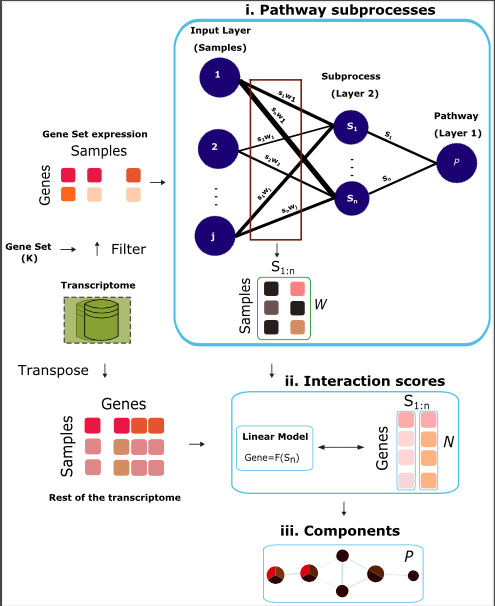
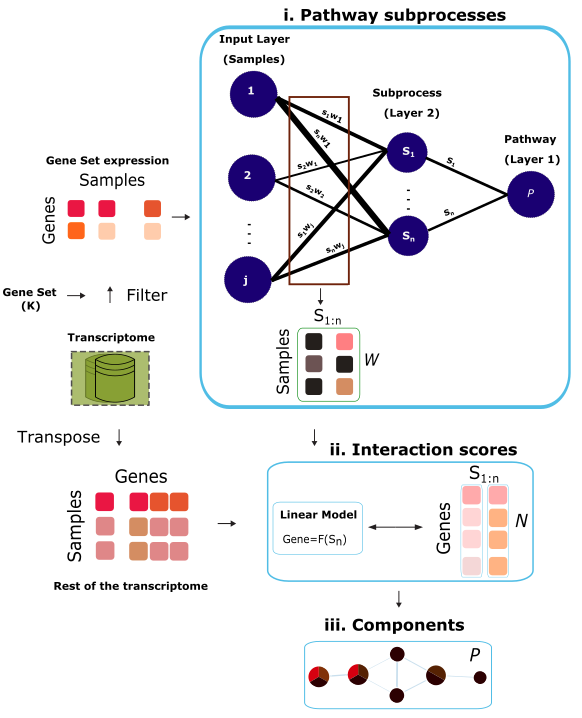
Final Version 1.0.0
Installable with
pip install ACSNI
or
pip install ACSNI-1.0.0

diff --git a/setup.py b/setup.py
@@ -17,7 +17,8 @@ setuptools.setup(
     description="automatic context-specific network inference",
     long_description=long_description,
     long_description_content_type="text/markdown",
-    url="https://github.com/caanene1/ACSNI/release",
+    url="https://github.com/caanene1/ACSNI",
+    download_url = "https://github.com/caanene1/ACSNI/releases/download/1.0.0/ACSNI-1.0.0-py3-none-any.whl",
     packages=setuptools.find_packages(include=["ACSNI", "ACSNI.SRC"]),
     include_package_data=True,
     classifiers=[
@@ -30,3 +31,4 @@ setuptools.setup(
 )
 
 # Build this package with >> python3 setup.py sdist bdist_wheel
+# Upload to pypi with >> sudo twine upload dist/*

diff --git a/README.md b/README.md
@@ -6,7 +6,7 @@ Many components of these biological pathways still remain unknown, hindering the
 biological processes of interest. ACSNI leverages artificial intelligence for the reconstruction of a biological pathway,
 aids the discovery of pathway components and classification of the crosstalk between pathways in specific tissues.
 
-![workflow](https://user-images.githubusercontent.com/44468440/111686911-916bee00-8821-11eb-9b96-e2cefc93f3cf.png)
+![workflow](https://user-images.githubusercontent.com/44468440/111687762-92e9e600-8822-11eb-8d59-38d08a95d115.png)
 
 This tool is built in python3 with tensorflow backend and keras functional API.
 
